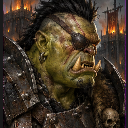
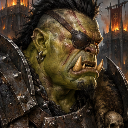
Terræn fra ark terraen-1 og sømløse malede jordteksturer
- assets/terrain: vand, græs, jord, ujævnt, sump
- terrainSheet(): importerede teksturer gøres sømløse med krydsudtoning og spænder over 2x2 felter,
  så der hverken ses fliserande eller spejlmønstre; bruges på eventyrkortet og som kampbaggrund
- processSheet: portræt- og terrænfelter beskæres lidt inden for panelet, så arkets kant ikke følger med
  (portrætter genimporteret)
- sw.js: cache-version 1.4.3

Claude-Session: https://claude.ai/code/session_01X1hng9uKA73mHoHzVSB13X

diff --git a/js/render/adventure.js b/js/render/adventure.js
@@ -1,6 +1,6 @@
 // Adventure map renderer: chunk-cached terrain, y-sorted sprites, cloudy fog of
 // war, ambient particles and simple animations.
-import { TILE, tileTexture, drawTileDetails, decorSprite, objectSprite, townSprite, heroSprite } from './sprites.js';
+import { TILE, tileTexture, terrainSheet, drawTileDetails, decorSprite, objectSprite, townSprite, heroSprite } from './sprites.js';
 import { figure } from './figures.js';
 import { mk, circle, line, rrect, ellipse, rgba, blit, glow } from './draw.js';
 import { T, D, DECOR_BLOCKS, TERRAIN_INFO } from '../data/terrain.js';
@@ -101,12 +101,23 @@ export class AdventureRenderer {
     const tAt = (x, y) => (x < 0 || y < 0 || x >= m.w || y >= m.h ? -1 : m.terrain[y * m.w + x]);
     const hash = (x, y) => ((x * 73856093) ^ (y * 19349663)) >>> 0;
     const patterns = {};
-    const pattern = (t) => patterns[t] || (patterns[t] = ctx.createPattern(tileTexture(t, texPx), 'repeat'));
+    const sheets = {};
+    const sheet = (t) => (t in sheets ? sheets[t] : (sheets[t] = terrainSheet(t, texPx)));
+    const pattern = (t) => {
+      if (patterns[t]) return patterns[t];
+      const sh = sheet(t);
+      const p = ctx.createPattern(sh || tileTexture(t, texPx), 'repeat');
+      // align the 4x4-tile sheet with world tile coordinates
+      if (sh && p.setTransform) p.setTransform(new DOMMatrix().translate(-(x0 & 3) * TS, -(y0 & 3) * TS).scale(TS / texPx));
+      return (patterns[t] = p);
+    };
     // base squares
     for (let j = 0; j < n; j++) for (let i = 0; i < n; i++) {
-      const t = tAt(x0 + i, y0 + j);
+      const x = x0 + i, y = y0 + j; const t = tAt(x, y);
       if (t < 0) { ctx.fillStyle = '#07090d'; ctx.fillRect(i * TS, j * TS, TS + 1, TS + 1); continue; }
-      ctx.drawImage(tileTexture(t, texPx), i * TS, j * TS, TS + 0.5, TS + 0.5);
+      const sh = sheet(t);
+      if (sh) ctx.drawImage(sh, (x & 3) * texPx, (y & 3) * texPx, texPx, texPx, i * TS, j * TS, TS + 0.5, TS + 0.5);
+      else ctx.drawImage(tileTexture(t, texPx), i * TS, j * TS, TS + 0.5, TS + 0.5);
     }
     const blobPath = (i, j, h, r1, r2) => {
       const cxp = i * TS + TS / 2, cyp = j * TS + TS / 2;
@@ -160,7 +171,7 @@ export class AdventureRenderer {
     for (let j = 0; j < n; j++) for (let i = 0; i < n; i++) {
       const x = x0 + i, y = y0 + j; const t = tAt(x, y);
       if (t < 0) continue;
-      drawTileDetails(ctx, t, i * TS, j * TS, TS, hash(x, y));
+      if (!sheet(t)) drawTileDetails(ctx, t, i * TS, j * TS, TS, hash(x, y));
     }
     // roads
     ctx.lineCap = 'round'; ctx.lineJoin = 'round';

diff --git a/js/render/sprites.js b/js/render/sprites.js
@@ -35,6 +35,40 @@ function tileable(nz, u, v, P, f, oct, off = 0) {
   return (a * (P - u) * (P - v) + b * u * (P - v) + c * (P - u) * v + d * u * v) / (P * P);
 }
 const TERRAIN_KEYS = ['water', 'grass', 'dirt', 'rough', 'swamp', 'snow', 'ash'];
+/** Makes a texture tileable: cross-fades it with a half-offset copy horizontally, then vertically. */
+function makeSeamless(img, P) {
+  const a = mk(P, P); const actx = a.getContext('2d'); actx.drawImage(img, 0, 0, P, P);
+  const src = actx.getImageData(0, 0, P, P).data;
+  const c = P / 2;
+  const g = (i) => { const r = Math.abs(i - c) / c; const t = Math.min(1, Math.max(0, (r - 0.45) / 0.55)); return 1 - t * t * (3 - 2 * t); };
+  const pass = (inp, horizontal) => {
+    const out = new Uint8ClampedArray(inp.length);
+    for (let y = 0; y < P; y++) for (let x = 0; x < P; x++) {
+      const w = g(horizontal ? x : y);
+      const sx = horizontal ? (x + c) % P : x, sy = horizontal ? y : (y + c) % P;
+      const o = (y * P + x) * 4, q = (sy * P + sx) * 4;
+      for (let k = 0; k < 3; k++) out[o + k] = inp[o + k] * w + inp[q + k] * (1 - w);
+      out[o + 3] = 255;
+    }
+    return out;
+  };
+  const res = pass(pass(src, true), false);
+  const id = actx.createImageData(P, P); id.data.set(res); actx.putImageData(id, 0, 0);
+  return a;
+}
+/** Imported ground textures: a 4x4-tile sheet where the (seamless) texture spans 2x2 tiles.
+ *  Returns null when the terrain is procedural. */
+export function terrainSheet(t, px = 96) {
+  const aimg = assetImage(`terrain/${TERRAIN_KEYS[t]}`);
+  if (!aimg) return null;
+  return cached(`tsheet:${t}:${px}`, () => {
+    const P = px * 2;
+    const tex = makeSeamless(aimg, P);
+    const sh = mk(P * 2, P * 2); const ctx = sh.getContext('2d');
+    for (let j = 0; j < 2; j++) for (let i = 0; i < 2; i++) ctx.drawImage(tex, i * P, j * P);
+    return sh;
+  });
+}
 export function tileTexture(t, px = 96) {
   return cached(`tile:${t}:${px}`, () => {
     const aimg = assetImage(`terrain/${TERRAIN_KEYS[t]}`);

diff --git a/js/render/battleRender.js b/js/render/battleRender.js
@@ -3,7 +3,7 @@
 import { BF_W, BF_H, hexCenter, hexPolygon, hexKey, pixelToHex } from '../combat/hex.js';
 import { figure } from './figures.js';
 import { mk, poly, circle, ellipse, rrect, line, lgrad, rgrad, rgba, shade, lighten, blit, glow, softShadow } from './draw.js';
-import { tileTexture, drawTileDetails, decorSprite } from './sprites.js';
+import { tileTexture, terrainSheet, drawTileDetails, decorSprite } from './sprites.js';
 import { T, D } from '../data/terrain.js';
 import { SPELLS } from '../data/spells.js';
 import { clamp } from '../core/utils.js';
@@ -58,12 +58,12 @@ export class BattleRenderer {
     const c = mk(Math.round(this.w * this.dpr), Math.round(this.h * this.dpr)); const ctx = c.getContext('2d');
     ctx.scale(this.dpr, this.dpr);
     const t = this.b.terrain === T.WATER ? T.GRASS : this.b.terrain;
-    const tex = tileTexture(t, 96);
-    const pat = ctx.createPattern(tex, 'repeat');
+    const sheet = terrainSheet(t, 110);
+    const pat = ctx.createPattern(sheet || tileTexture(t, 96), 'repeat');
     ctx.fillStyle = pat; ctx.fillRect(0, 0, this.w, this.h);
-    // hand-drawn details across the field
+    // hand-drawn details across the field (painted textures bring their own)
     const cell = 110;
-    for (let y = -1; y < this.h / cell + 1; y++) for (let x = -1; x < this.w / cell + 1; x++) drawTileDetails(ctx, t, x * cell, y * cell, cell, (x * 7919 + y * 104729 + 17) >>> 0);
+    if (!sheet) for (let y = -1; y < this.h / cell + 1; y++) for (let x = -1; x < this.w / cell + 1; x++) drawTileDetails(ctx, t, x * cell, y * cell, cell, (x * 7919 + y * 104729 + 17) >>> 0);
     // large-scale light & shade
     const g = ctx.createRadialGradient(this.w / 2, this.h * 0.45, this.h * 0.15, this.w / 2, this.h / 2, this.w * 0.75);
     g.addColorStop(0, 'rgba(255,240,200,0.14)'); g.addColorStop(0.6, 'rgba(0,0,0,0.12)'); g.addColorStop(1, 'rgba(0,0,0,0.6)');

diff --git a/js/render/assets.js b/js/render/assets.js
@@ -285,10 +285,18 @@ export function processSheet(img, sheet) {
   return sheet.slots.map((slot, i) => {
     const part = parts[i];
     let src = part;
-    if (!slot.keying) { // portraits / terrain: fill transparent edge pixels with their own content (opaque crop)
-      const c = mk(part.width, part.height); const x = c.getContext('2d');
-      x.fillStyle = '#1a1a1a'; x.fillRect(0, 0, c.width, c.height); x.drawImage(part, 0, 0);
-      src = c;
+    if (!slot.keying) { // portraits / terrain: crop to the fully opaque panel, inset a little so no sheet edge remains
+      const pw = part.width, ph = part.height; const d = part.getContext('2d').getImageData(0, 0, pw, ph).data;
+      let x0 = pw, y0 = ph, x1 = -1, y1 = -1;
+      for (let y = 0; y < ph; y++) for (let x = 0; x < pw; x++) if (d[(y * pw + x) * 4 + 3] > 250) { if (x < x0) x0 = x; if (x > x1) x1 = x; if (y < y0) y0 = y; if (y > y1) y1 = y; }
+      if (x1 > x0 && y1 > y0) {
+        const inset = Math.max(2, Math.round(Math.min(x1 - x0, y1 - y0) * 0.015));
+        x0 += inset; y0 += inset; x1 -= inset; y1 -= inset;
+        const c = mk(x1 - x0 + 1, y1 - y0 + 1); const x = c.getContext('2d');
+        x.fillStyle = '#1a1a1a'; x.fillRect(0, 0, c.width, c.height);
+        x.drawImage(part, x0, y0, c.width, c.height, 0, 0, c.width, c.height);
+        src = c;
+      }
     }
     return { key: slot.key, canvas: fitToSlot(src, slot.size[0], slot.size[1], slot.baseline, slot.keying) };
   });

diff --git a/sw.js b/sw.js
@@ -1,5 +1,5 @@
 // Service worker: cache-first for app files so the game works offline once installed.
-const VERSION = 'tsj-v1.4.2';
+const VERSION = 'tsj-v1.4.3';
 const FILES = [
   './', './index.html', './manifest.webmanifest', './css/style.css', './icons/icon.svg', './icons/icon-192.png', './icons/icon-512.png',
   './js/main.js',
